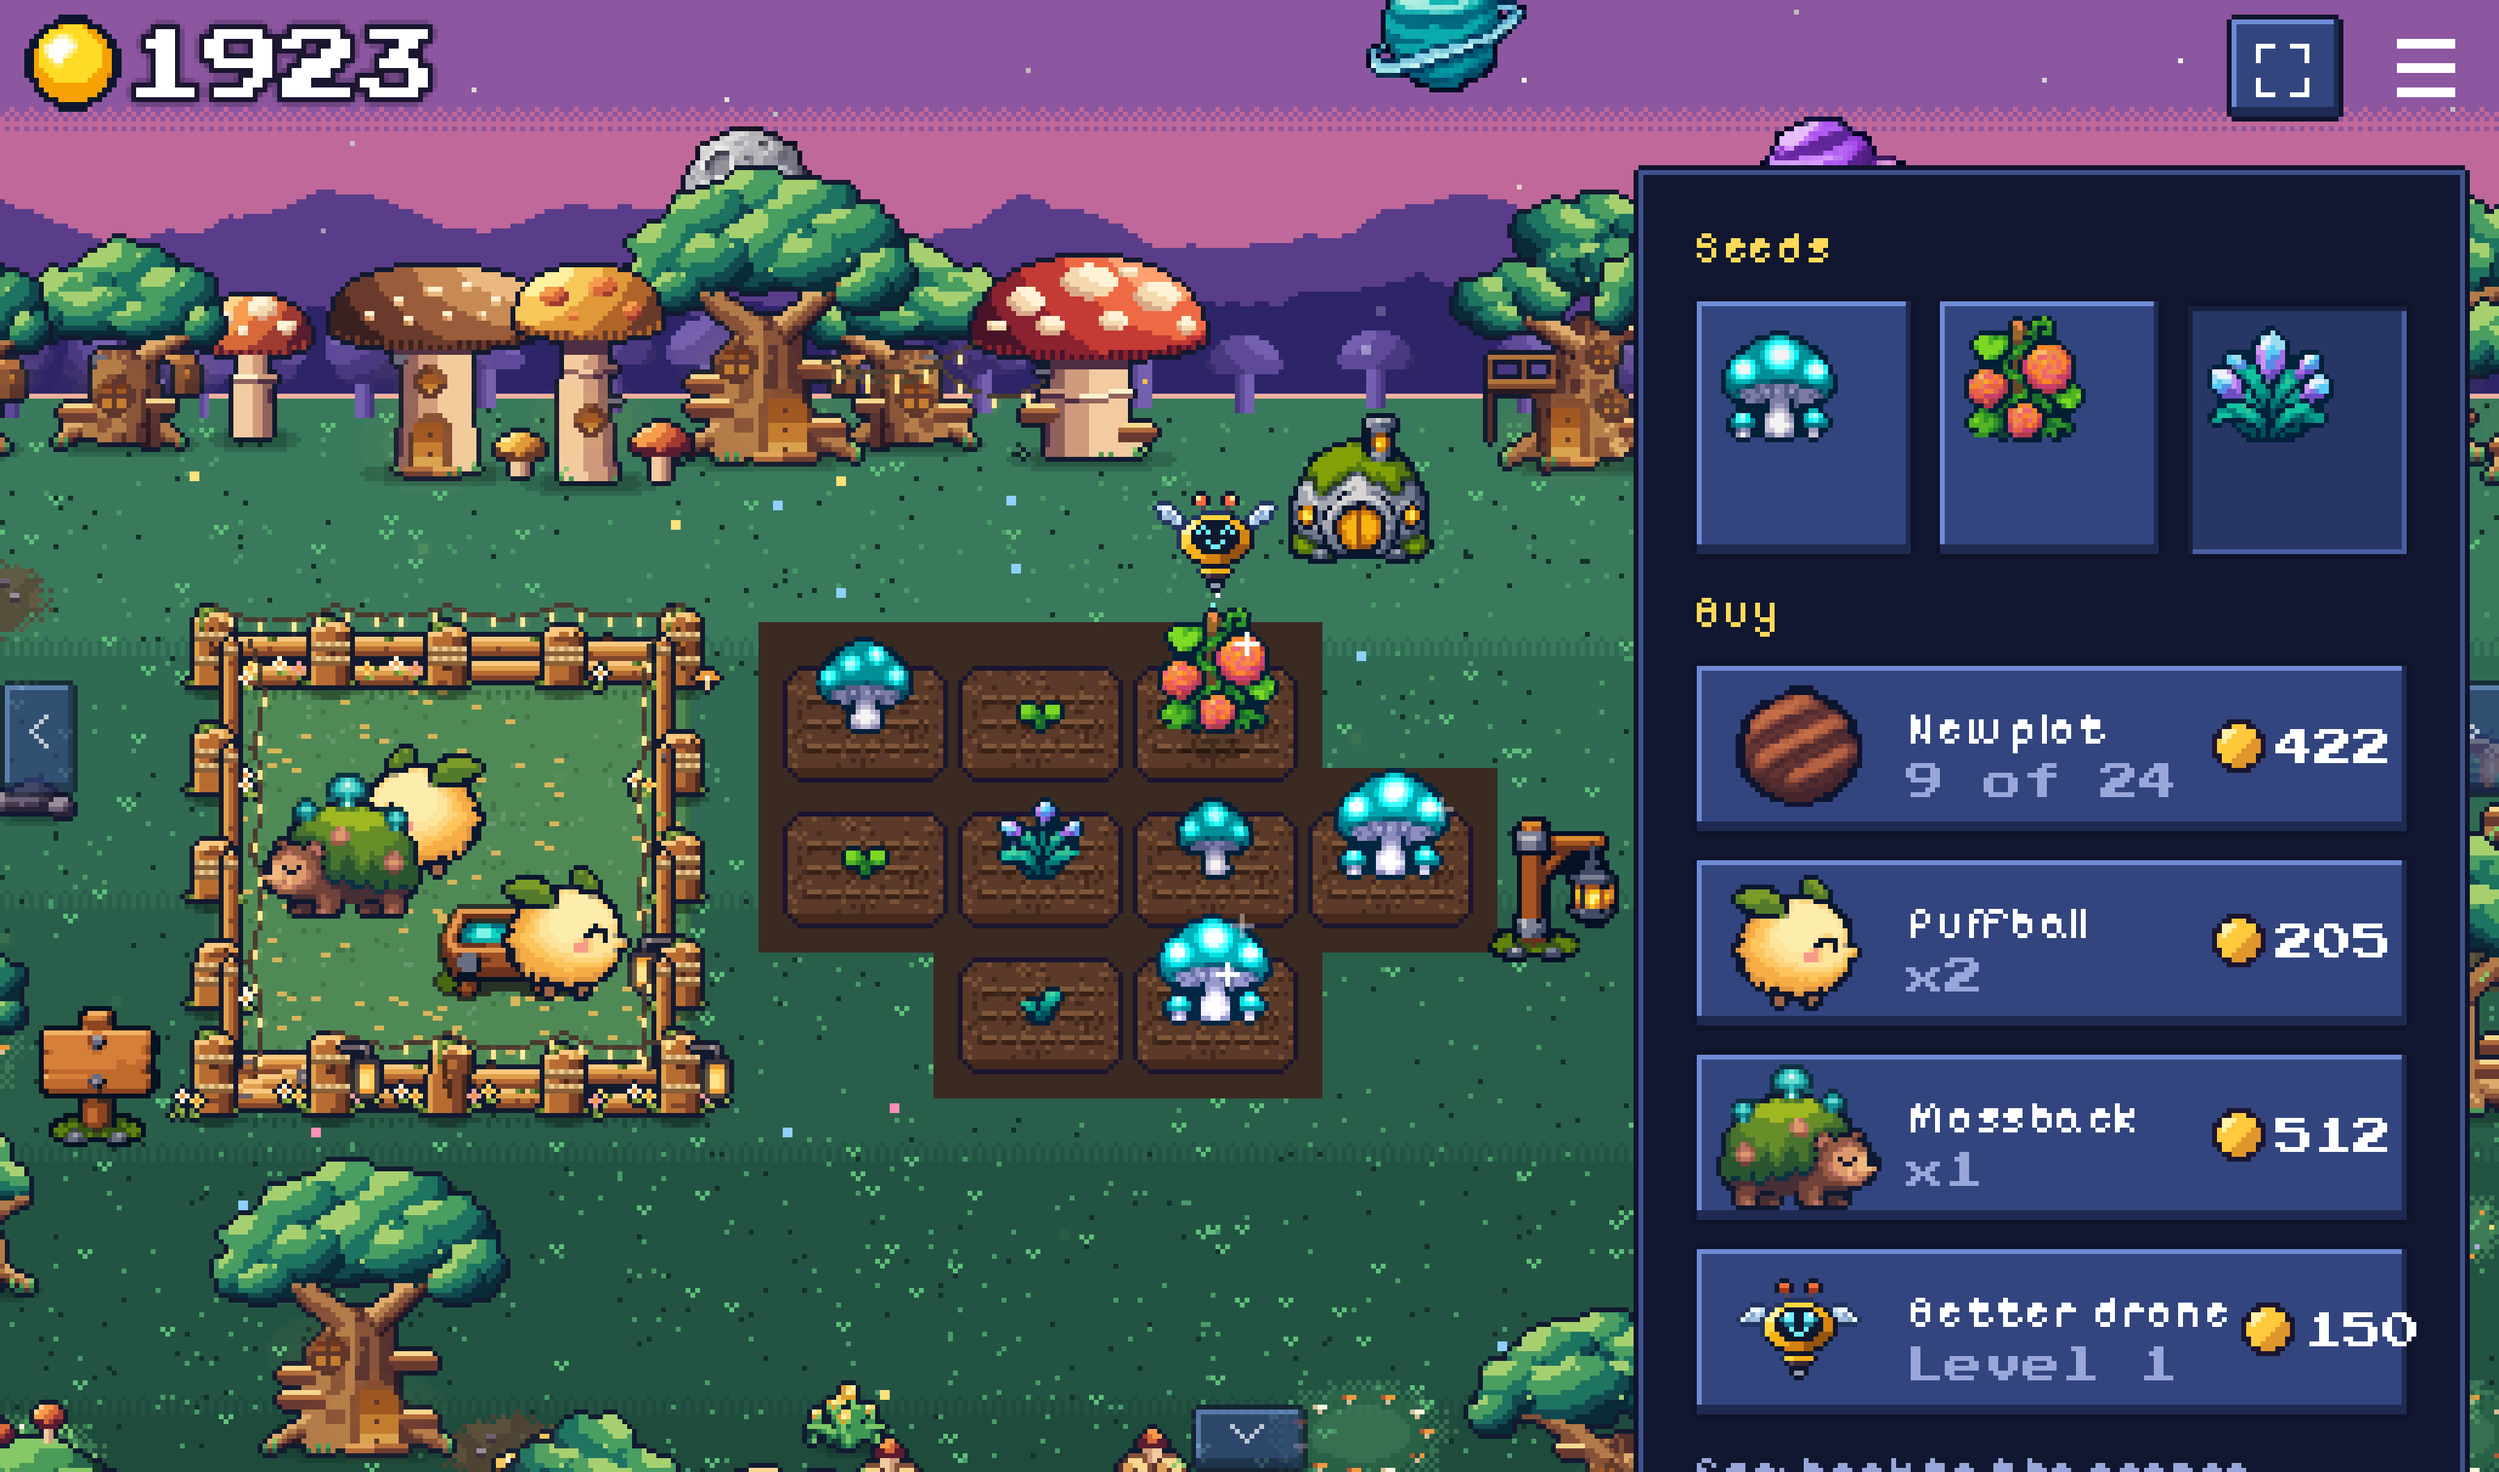
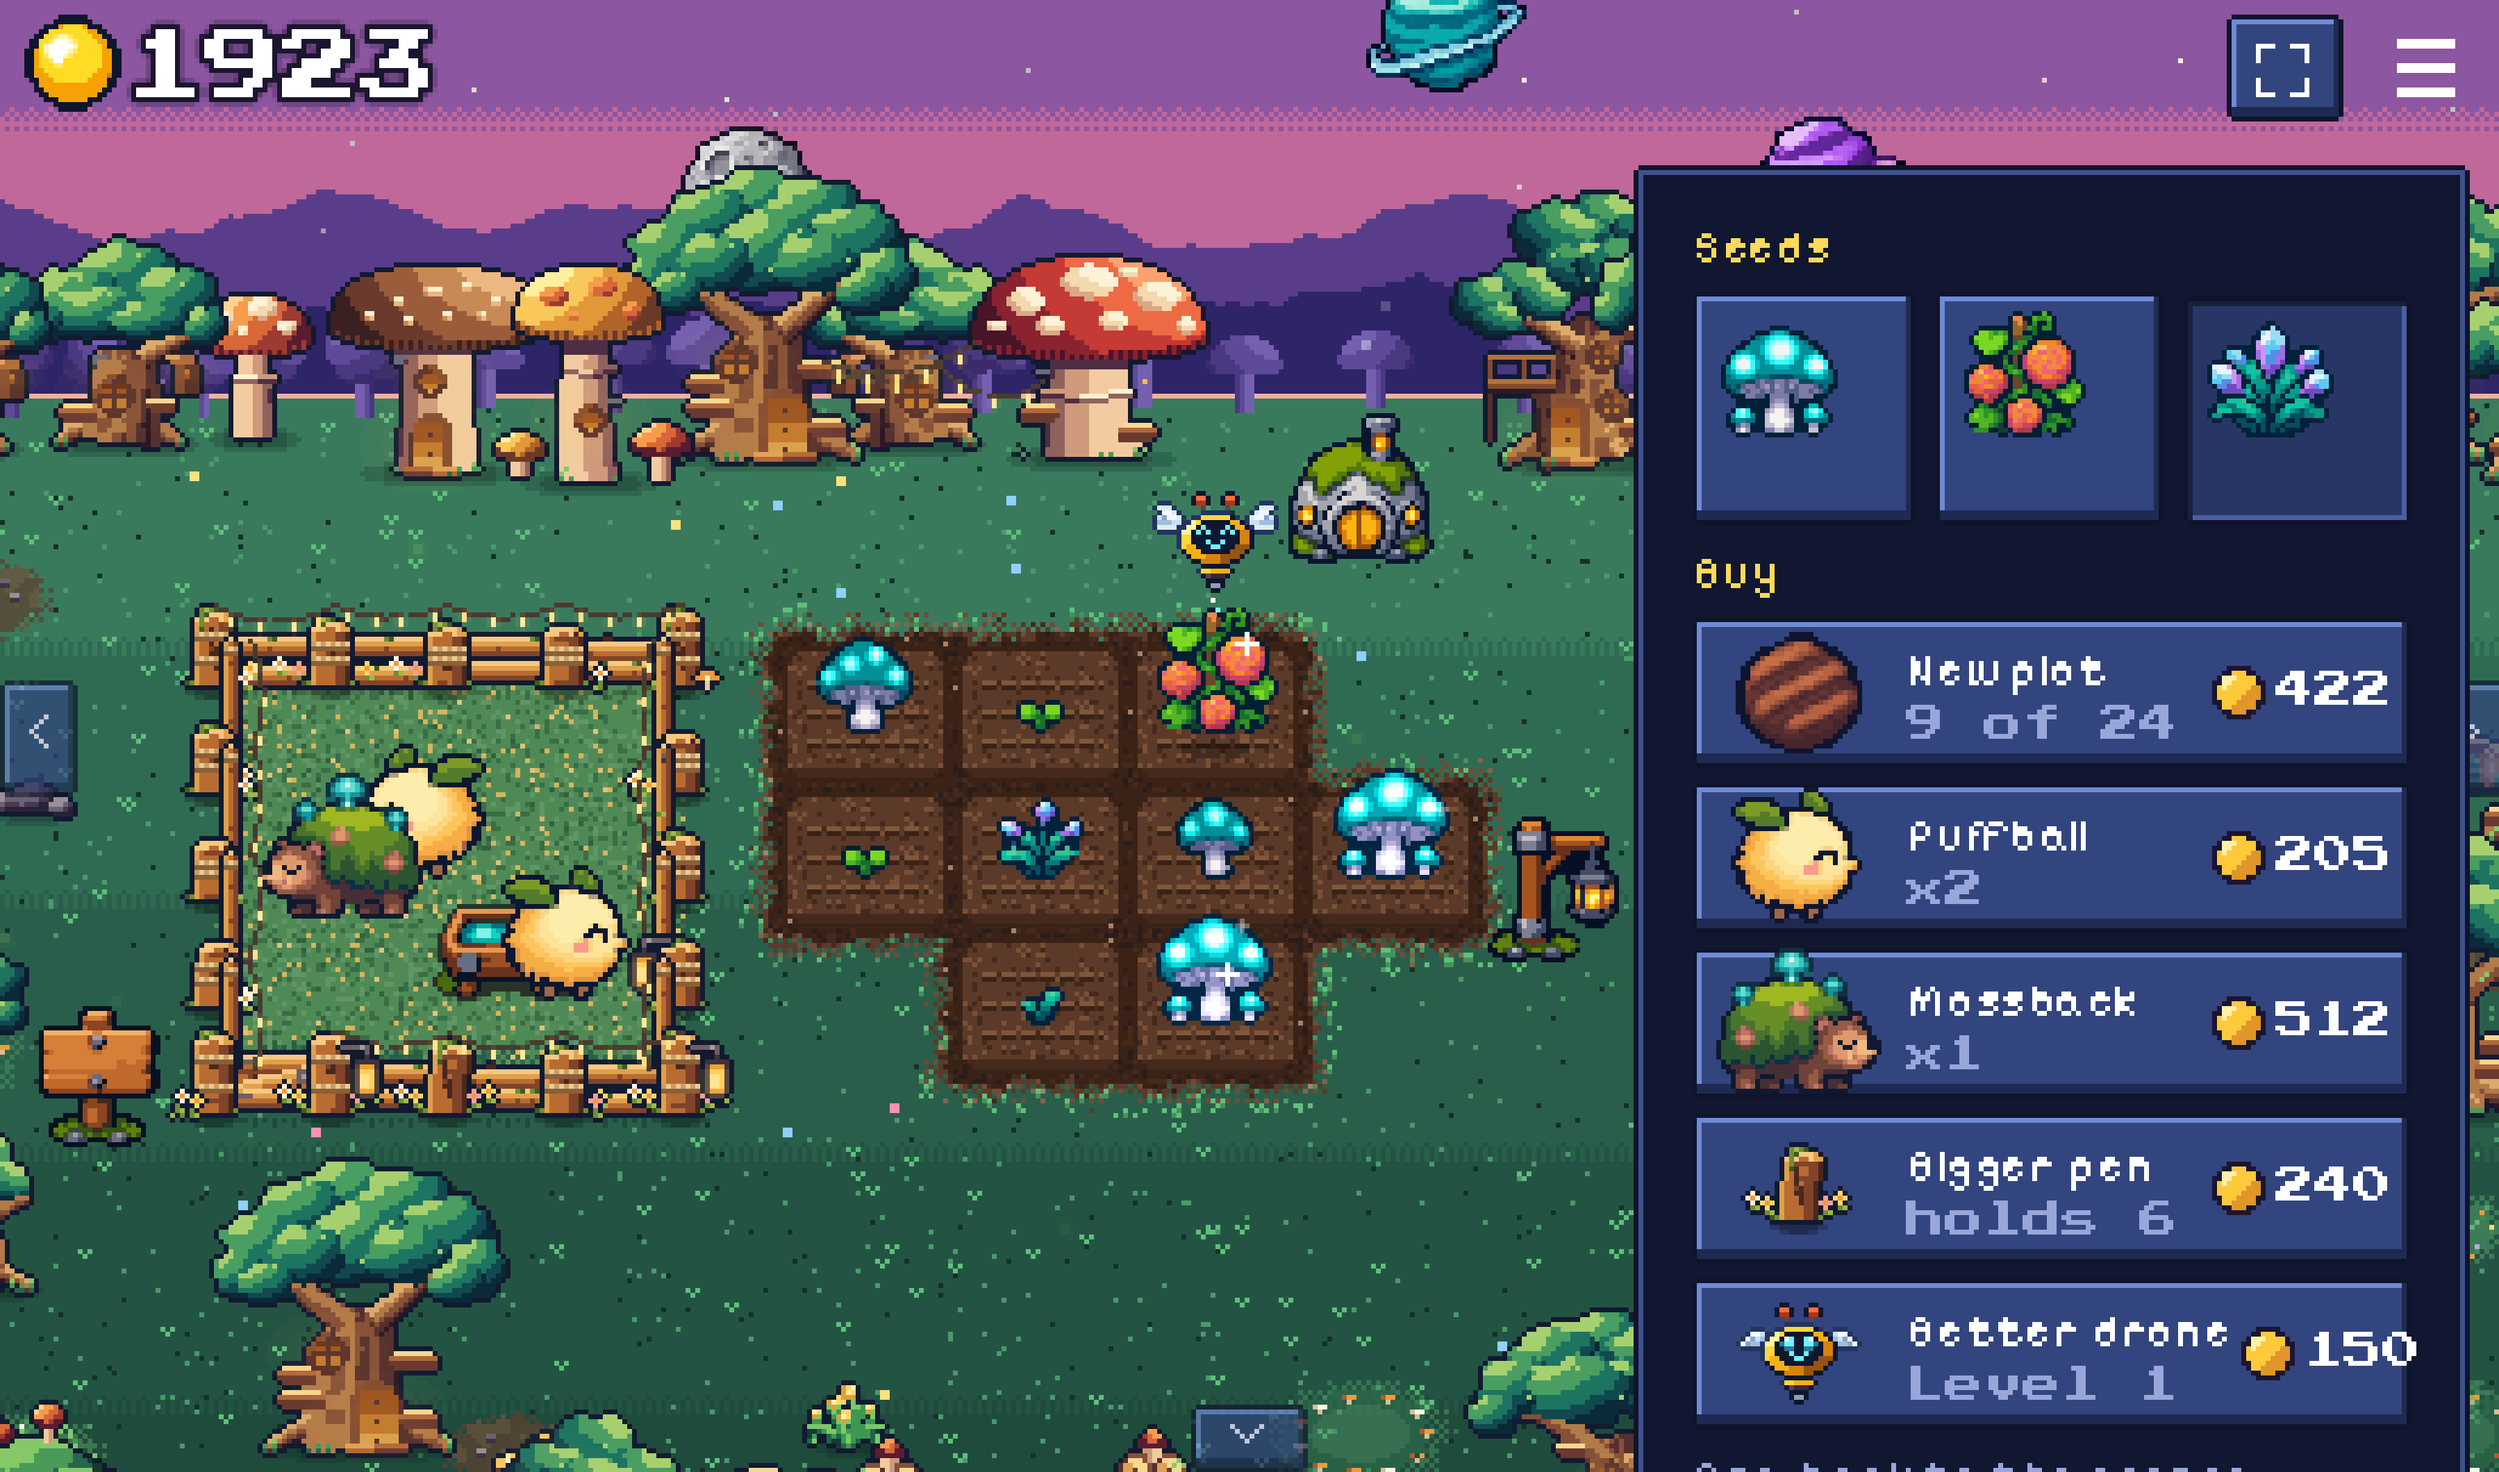
v0.0.6: a pen that grows, and farm ground that blends in

diff --git a/CHANGELOG.md b/CHANGELOG.md
@@ -6,10 +6,31 @@ All notable changes to *Driftlight*, newest first.
 
 | Version | Date | Status | Summary |
 |---|---|---|---|
+| v0.0.6 | 2026-11-28 | Pre-alpha | A pen that grows with a new Bigger pen button, and farm ground that fades into the meadow, with plots that connect above and below each other |
 | v0.0.5 | 2026-11-28 | Pre-alpha | A cosier farm: a fairy-light fence, a new bee-bot helper drone, a forest of tree houses and giant mushrooms that glows at night, and plots you place where you want. Cinderrift is out for now |
 | v0.0.4 | 2026-11-26 | Pre-alpha | A second planet, the lava world Cinderrift, with its own crops and animals, and a Planets button to travel between planets |
 | v0.0.3 | 2026-11-26 | Pre-alpha | A new look: one pixel size for every picture, sharp pixels on screen, and a rebuilt helper drone with five moods |
 | v0.0.1 | 2026-11-25 | Pre-alpha | The first version: a farm on a faraway planet, with a helper drone, a corner view and a full-screen view, for Windows and Mac |
+
+---
+
+## v0.0.6 · 2026-11-28 · Pre-alpha
+
+A farm that grows, and blends in.
+
+### Highlights
+
+- **A pen that grows:** the shop has a new **Bigger pen** button. Each one adds a bay of fence, to the left or down (the shorter side first), up to 6 by 6 bays, with a bigger floor and room for more animals: 6, 8, 10, 12 and 14. It costs 240 light, and 1.6 times more each time. If plots are in the way on one side, the pen grows the other way; if both are blocked, the button says there is no room.
+- **Ground that blends in:** the soil round the plots no longer stops at a straight edge. It thins out into the meadow with a ragged edge, crumbs of earth and grass leaning over it. The pen floor is trampled grass and straw that fades into the meadow too.
+- **Plots that connect:** plots above and below each other now sit as close together as plots side by side, so a field reads as one tilled bed. A plot's rim is dark soil instead of an outline.
+- The shop's buttons are a little shorter, so one more fits on small screens.
+
+### Good to know
+
+- Saves from earlier versions carry over, with the small pen the game started with.
+- This is still an early test version, and the numbers (what a bigger pen costs, how many animals it holds) are first guesses, so tell us how the pace feels.
+- The Windows build has not been tried on a real Windows computer yet.
+- The builds aren't signed yet, so Windows and macOS warn the first time you open the game. The [README](https://github.com/fdrk-git/Driftlight#download-and-play) says how to get past that.
 
 ---
 

diff --git a/README.md b/README.md
@@ -16,6 +16,10 @@ The corner view, the small window that sits on your screen and plays itself:
 
 <img src="docs/screenshots/corner-view.png" alt="The corner view: the field, the pen and the helper drone" width="450">
 
+The pen can grow. **Bigger pen** in the shop adds one bay of fence, to the left or down, up to 6 by 6 bays, with room for more animals:
+
+<img src="docs/screenshots/bigger-pen.png" alt="A bigger pen, six bays wide and five deep, with ten animals in it" width="450">
+
 The helper drone has moods: happy when it is idle, squinting while it works, a blink now and then, wow when you upgrade
 it, and hearts after it finishes a job.
 
@@ -54,7 +58,7 @@ The farm plays itself. Everything below is optional.
 | Click a ripe crop | You harvest it at once, for the full value. It replants itself |
 | Click the bubble above an animal | You collect its goods at once, for the full value |
 | Click the open button, top right | The farm opens up to the whole screen, with a shop on the right. Press **Esc** to go back to the corner |
-| In the full view | Pick a seed to plant, unlock new seeds, buy animals for the pen and a better drone. **New plot** lets you click where the plot goes |
+| In the full view | Pick a seed to plant, unlock new seeds, buy animals for the pen, a bigger pen and a better drone. **New plot** lets you click where the plot goes |
 | Scroll, use the arrow keys, or drag with the right mouse button | Moves the view over the land. In the full view, dragging empty ground does it too. In the corner, small arrows at the window's edges do the same |
 | Drag an empty spot in the corner | Moves the window |
 | Close the game | The farm keeps growing for up to 8 hours. When you open the game again, a "Welcome back" panel says how much light it brought |
